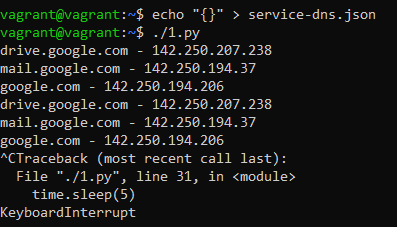
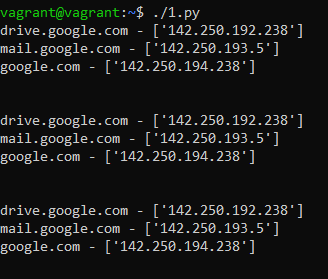
Homework for 04-script-03-yaml lesson

Changed region(s): [[0.0, 0.0308, 0.9451, 0.9868], [0.9146, 0.7401, 0.9451, 0.7709]]

diff --git a/04-script-03-yaml/README.md b/04-script-03-yaml/README.md
@@ -18,51 +18,104 @@
         ]
     }
 ```
-
 Нужно найти и исправить все ошибки, которые допускает наш сервис.
 
 ### Решение
-
 ```
-???
+{
+    "info": "Sample JSON output from our service\t",
+    "elements": [
+        {
+            "name": "first",
+            "type": "server",
+            "ip": "7.1.7.5"
+        },
+        {
+            "name": "second",
+            "type": "proxy",
+            "ip": "71.78.22.43"
+        }
+    ]
+}
 ```
-
-![MarkDown](img/1.png)
-<br>
 
 
 ## Задание 2
-
-В прошлый рабочий день мы создавали скрипт, позволяющий опрашивать веб-сервисы и получать их IP. К уже реализованному функционалу нам нужно добавить возможность записи JSON и YAML-файлов, описывающих наши сервисы. 
-
-Формат записи JSON по одному сервису: `{ "имя сервиса" : "его IP"}`. 
-
-Формат записи YAML по одному сервису: `- имя сервиса: его IP`. 
-
-Если в момент исполнения скрипта меняется IP у сервиса — он должен так же поменяться в YAML и JSON-файле.
+В прошлый рабочий день мы создавали скрипт, позволяющий опрашивать веб-сервисы и получать их IP. К уже реализованному функционалу нам нужно добавить возможность записи JSON и YAML-файлов, описывающих наши сервисы.<br><br>
+Формат записи JSON по одному сервису: `{ "имя сервиса" : "его IP"}`.<br><br> 
+Формат записи YAML по одному сервису: `- имя сервиса: его IP`.<br><br>
+Если в момент исполнения скрипта меняется IP у сервиса — он должен так же поменяться в YAML и JSON-файле.<br>
 
 ### Решение
-
-```
 ```python
-???
+#!/usr/bin/env python3
+
+import os
+import sys
+import socket
+import json
+import yaml
+import time
+
+dict_service = {"drive.google.com": "0", "mail.google.com": "0", "google.com": "0"}
+
+while True:
+    for i in dict_service.keys():
+        oldIP = dict_service[i]
+        newIP = socket.gethostbyname_ex(i)[2]
+
+        if oldIP != newIP and oldIP != "0":
+            print(f'[ERROR] {i} IP mismatch: {oldIP} {newIP}')
+        else:
+            print(f'{i} - {newIP}')
+            dict_service[i] = newIP
+
+        dict_single_service = {i: dict_service[i]}
+
+        with open(i+'.json', 'w') as js:
+            json.dump(dict_single_service, js)
+
+        with open(i+'.yaml', 'w') as ym:
+            ym.write(yaml.dump(dict_single_service, explicit_start=True, explicit_end=True))
+
+    print('\n')
+    time.sleep(2)
+
 ```
 
 #### Вывод скрипта при запуске во время тестирования:
-
-```
-???
-```
+![MarkDown](img/1.png)
 
 #### JSON-файл(ы), который(е) записал ваш скрипт:
-
 ```json
-???
+drive.google.com.json
+{"drive.google.com": ["64.233.165.194"]}
+
+mail.google.com.json
+{"mail.google.com": ["216.58.221.37"]}
+
+google.com.json
+{"google.com": ["216.58.200.174"]}
 ```
 
 #### YAML-файл(ы), который(е) записал ваш скрипт:
-
 ```yaml
-???
+drive.google.com.yaml
+---
+drive.google.com:
+- 64.233.165.194
+...
+
+mail.google.com.yaml
+---
+mail.google.com:
+- 216.58.221.37
+...
+
+google.com.yaml
+---
+google.com:
+- 216.58.200.174
+...
 ```
 <br>

diff --git a/04-script-02-py/README.md b/04-script-02-py/README.md
@@ -105,41 +105,28 @@ for result in result_os.split('\n'):
 Также должна быть реализована возможность проверки текущего IP сервиса c его IP из предыдущей проверки. Если проверка будет провалена — оповестить об этом в стандартный вывод сообщением: [ERROR] <URL сервиса> IP mismatch: <старый IP> <Новый IP>. Будем считать, что наша разработка реализовала сервисы: `drive.google.com`, `mail.google.com`, `google.com`.
 
 ### Решение
-```
-echo "{}" > service-dns.json
-```
 ```python
 #!/usr/bin/env python3
 
 import os
 import sys
-import time
 import socket
-import json
+import time
 
-service = ["drive.google.com", "mail.google.com", "google.com"]
-ip = []
+dict_service = {"drive.google.com": "0", "mail.google.com": "0", "google.com": "0"}
 
 while True:
-    with open('service-dns.json') as r:
-        data = json.load(r)
+    for i in dict_service.keys():
+        oldIP = dict_service[i]
+        newIP = socket.gethostbyname_ex(i)[2]
 
-    for s in service:
-        ip.append(socket.gethostbyname(s))
-
-    pairs = dict(zip(service, ip))
-
-    for key in data:
-        oldip = data[key]
-        newip = pairs[key]
-        if (oldip != newip):
-            print(f'[ERROR] {key} IP mismatch: {oldip} {newip}')
+        if oldIP != newIP and oldIP != "0":
+            print(f'[ERROR] {i} IP mismatch: {oldIP} {newIP}')
         else:
-            print(f'{key} - {newip}')
-
-    with open('service-dns.json', 'w') as w:
-        json.dump(pairs, w)
-    time.sleep(5)
+            print(f'{i} - {newIP}')
+            dict_service[i] = newIP
+    print('\n')
+    time.sleep(2)
 ```
 
 ![MarkDown](img/4.png)
